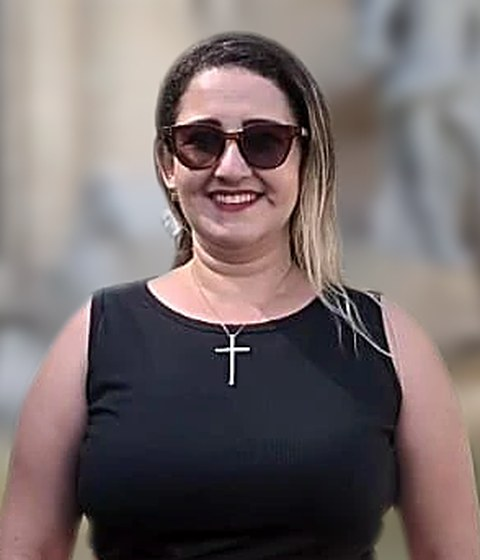
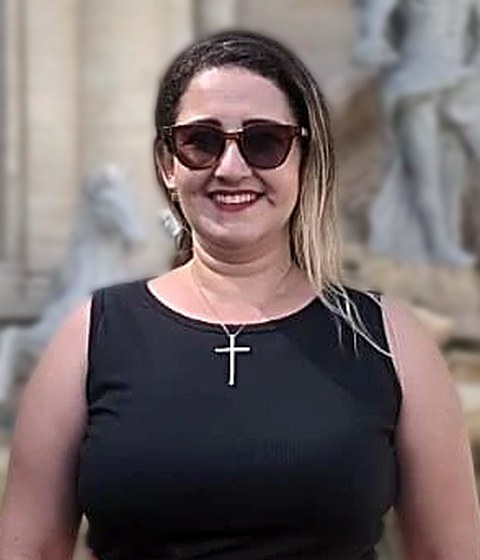
Evento NR-1: foto da Amanda com desfoque leve no fundo
Claude-Session: https://claude.ai/code/session_01G2pp4icUynWWAfrCkHUWXA

diff --git a/evento/nr1-estrategica/index.html b/evento/nr1-estrategica/index.html
@@ -1025,7 +1025,7 @@ height="0" width="0" style="display:none;visibility:hidden"></iframe></noscript>
       <li class="slot slot--marco"><span class="h">13h30</span><div><span class="q">Welcome coffee e credenciamento</span></div></li>
       <li class="slot"><span class="h">14h</span><div class="slot__c"><span class="slot__av" data-ini="MU"><img src="/assets/evento/nr1-estrategica/palestrantes/mariana-uebel.jpg" alt="" loading="lazy" width="44" height="44" onerror="this.remove()"></span><div><span class="q">Mariana Uebel <span class="cargo">CEO da Grou</span></span>
         <p class="t">Abertura do NR-1 Estratégica.</p></div></div></li>
-      <li class="slot"><span class="h">14h15</span><div class="slot__c"><span class="slot__duo"><a class="slot__av" href="#palestrantes" data-ini="AZ" aria-label="Conheça Amanda Zica"><img src="/assets/evento/nr1-estrategica/palestrantes/amanda-zica.jpg?v=3" alt="" loading="lazy" width="44" height="44" onerror="this.remove()"></a><a class="slot__av" href="#palestrantes" data-ini="LM" aria-label="Conheça Luciana Masiero"><img src="/assets/evento/nr1-estrategica/palestrantes/luciana-masiero.webp" alt="" loading="lazy" width="44" height="44" onerror="this.remove()"></a></span><div><span class="q">Amanda Zica · Suzano <span class="cargo">Analista de comportamento seguro</span></span>
+      <li class="slot"><span class="h">14h15</span><div class="slot__c"><span class="slot__duo"><a class="slot__av" href="#palestrantes" data-ini="AZ" aria-label="Conheça Amanda Zica"><img src="/assets/evento/nr1-estrategica/palestrantes/amanda-zica.jpg?v=4" alt="" loading="lazy" width="44" height="44" onerror="this.remove()"></a><a class="slot__av" href="#palestrantes" data-ini="LM" aria-label="Conheça Luciana Masiero"><img src="/assets/evento/nr1-estrategica/palestrantes/luciana-masiero.webp" alt="" loading="lazy" width="44" height="44" onerror="this.remove()"></a></span><div><span class="q">Amanda Zica · Suzano <span class="cargo">Analista de comportamento seguro</span></span>
         <p class="t">Análise de perfil comportamental e risco físico: o case Suzano</p>
         <p class="slot__med">Mediação: <b>Luciana Masiero</b> · Líder Técnica da Grou</p></div></div></li>
       <li class="slot"><span class="h">15h</span><div class="slot__c"><a class="slot__av" href="#palestrantes" data-ini="FW" aria-label="Conheça Fernanda Woodhead"><img src="/assets/evento/nr1-estrategica/palestrantes/fernanda-woodhead.jpg" alt="" loading="lazy" width="44" height="44" onerror="this.remove()"></a><div><span class="q">Fernanda Woodhead <span class="cargo">Juíza do Trabalho</span></span>
@@ -1057,7 +1057,7 @@ height="0" width="0" style="display:none;visibility:hidden"></iframe></noscript>
       <h2>Quem vai estar <b>no palco</b>.</h2>
       <p class="lede" style="margin-top:18px">Duas juízas do Trabalho, a indústria, a clínica e os dados: quem vive o risco psicossocial na prática.</p></div>
     <div class="falas__grade">
-<article class="fala an" style="--d:0.04s"><div class="fala__foto" data-ini="AZ"><img src="/assets/evento/nr1-estrategica/palestrantes/amanda-zica.jpg?v=3" alt="Amanda Zica" loading="lazy" decoding="async" width="480" height="560" onerror="this.remove()"></div><div class="fala__txt"><span class="fala__h">14h15</span><h3>Amanda Zica</h3><span class="fala__cargo">Analista de Comportamento Seguro · Suzano</span><p class="fala__tema">“Análise de perfil comportamental e risco físico: o case Suzano”</p><p class="fala__bio">Atua com comportamento seguro na Suzano, em Três Lagoas (MS).</p></div></article>
+<article class="fala an" style="--d:0.04s"><div class="fala__foto" data-ini="AZ"><img src="/assets/evento/nr1-estrategica/palestrantes/amanda-zica.jpg?v=4" alt="Amanda Zica" loading="lazy" decoding="async" width="480" height="560" onerror="this.remove()"></div><div class="fala__txt"><span class="fala__h">14h15</span><h3>Amanda Zica</h3><span class="fala__cargo">Analista de Comportamento Seguro · Suzano</span><p class="fala__tema">“Análise de perfil comportamental e risco físico: o case Suzano”</p><p class="fala__bio">Atua com comportamento seguro na Suzano, em Três Lagoas (MS).</p></div></article>
 <article class="fala an" style="--d:0.06s"><div class="fala__foto" data-ini="LM"><img src="/assets/evento/nr1-estrategica/palestrantes/luciana-masiero.webp" alt="Luciana Masiero" loading="lazy" decoding="async" width="420" height="452" onerror="this.remove()"></div><div class="fala__txt"><span class="fala__h">14h15</span><h3>Luciana Masiero</h3><span class="fala__cargo">Líder Técnica · Grou</span><p class="fala__tema">Mediadora da conversa com a Suzano: “Análise de perfil comportamental e risco físico: o case Suzano”</p><p class="fala__bio">Psicóloga e Mestre em Psicologia pela UFRGS, com ênfase em Aconselhamento e Desenvolvimento de Carreira. Líder Técnica da Grou e certificadora oficial no Brasil do PDA Assessment (PDA International, Espanha), com mais de 17 anos de experiência em desenvolvimento de competências comportamentais e de lideranças.</p></div></article>
 <article class="fala an" style="--d:0.09s"><div class="fala__foto" data-ini="FW"><img src="/assets/evento/nr1-estrategica/palestrantes/fernanda-woodhead.jpg" alt="Fernanda Woodhead" loading="lazy" decoding="async" width="480" height="560" onerror="this.remove()"></div><div class="fala__txt"><span class="fala__h">15h</span><h3>Fernanda Woodhead</h3><span class="fala__cargo">Juíza do Trabalho</span><p class="fala__tema">“NR-1: o que muda e o que a lei exige?”</p><p class="fala__bio">Juíza do Trabalho no TRT da 4ª Região (RS), titular da 2ª Vara do Trabalho de Bagé e do Posto Avançado de Dom Pedrito, promovida por merecimento em 2026.</p></div></article>
 <article class="fala an" style="--d:0.14s"><div class="fala__foto" data-ini="CF"><img src="/assets/evento/nr1-estrategica/palestrantes/carolina-fuhrmeister.jpg" alt="Carolina Fuhrmeister" loading="lazy" decoding="async" width="480" height="560" onerror="this.remove()"></div><div class="fala__txt"><span class="fala__h">15h30</span><h3>Carolina Fuhrmeister</h3><span class="fala__cargo">CRO e empreendedora</span><p class="fala__tema">“Performance sustentável começa com saúde mental”</p><p class="fala__bio">CRO e empreendedora, com foco em gestão comportamental para impulsionar resultados. Porto Alegre (RS).</p></div></article>
